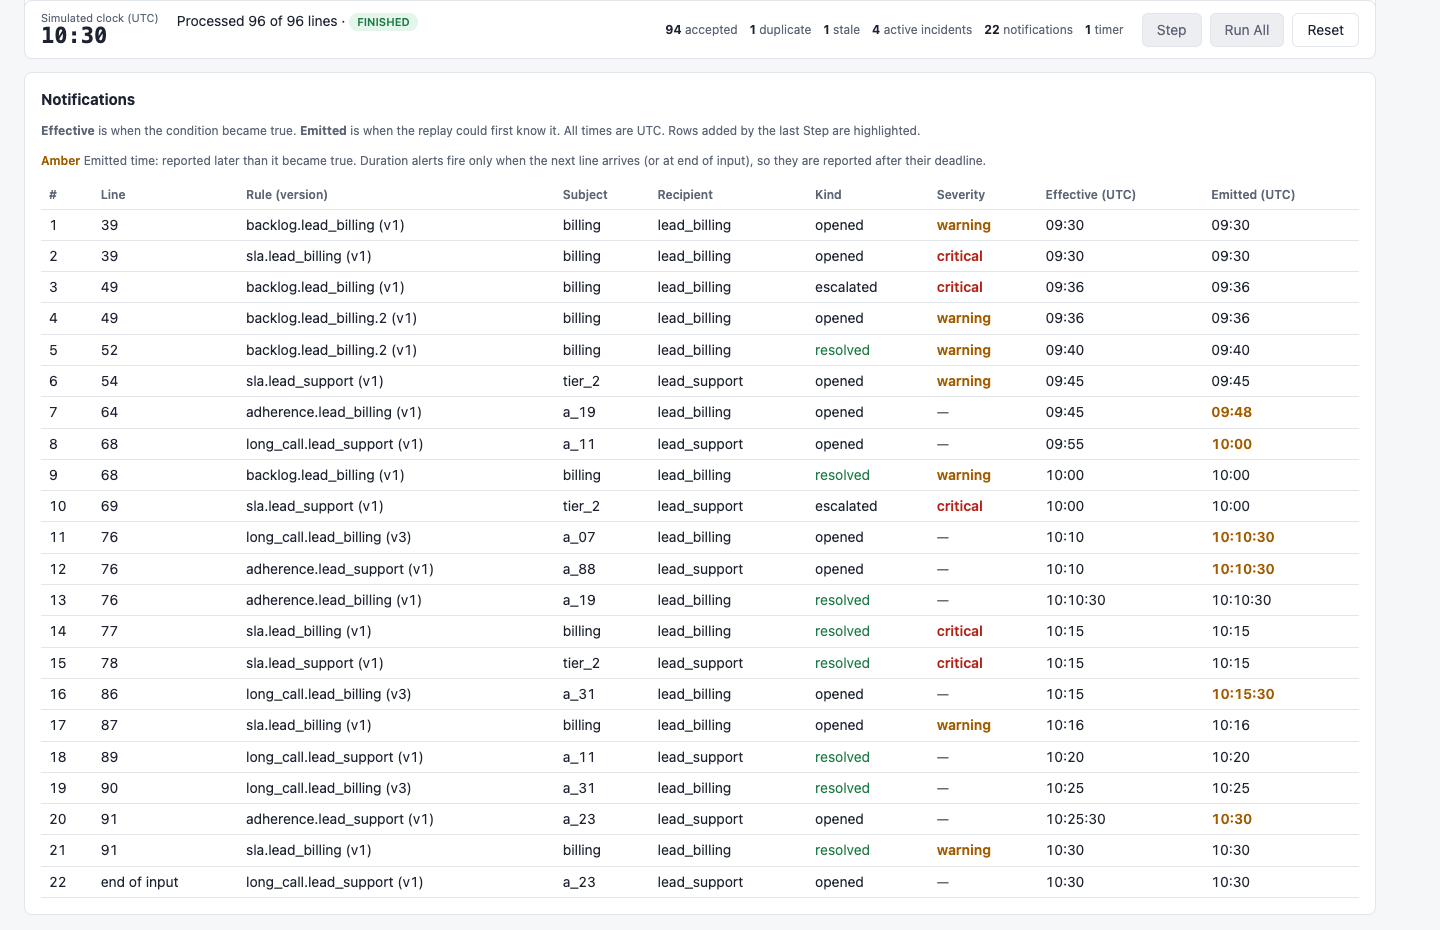
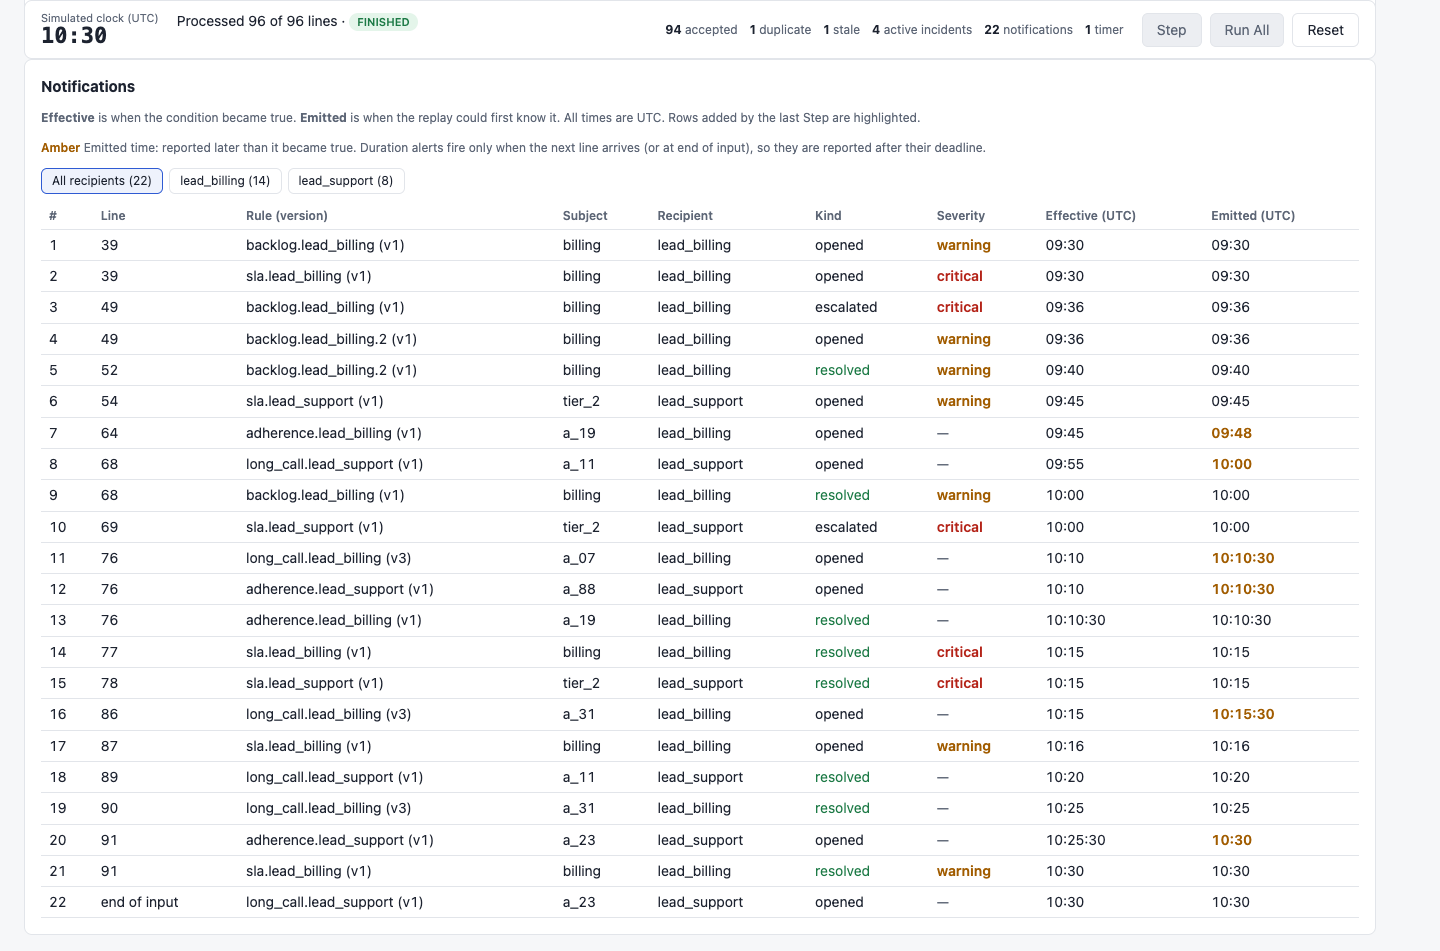
Add a display-only recipient filter to the notifications table
The Notifications table can show All recipients, lead_billing or lead_support, with counts taken from the loaded notifications. Filtering only hides rows: row numbers, replay counts and Step messages stay global. The choice survives page redraws but not a full reload, and keyboard focus stays on an activated filter button. No API, engine, storage or routing change (Decision 110). README and screenshot updated.

diff --git a/alerts/static/index.html b/alerts/static/index.html
@@ -163,6 +163,7 @@
       All times are UTC. Rows added by the last Step are highlighted.</p>
     <p class="small muted"><span class="late">Amber</span> Emitted time: reported later than it became true. Duration alerts fire
       only when the next line arrives (or at end of input), so they are reported after their deadline.</p>
+    <div class="filters" id="notification-filters"></div>
     <div class="table-wrap" id="notifications"></div>
   </section>
 
@@ -186,6 +187,7 @@ const ENABLED_NOTE =
 let highlighted = new Set();  // notification seqs added by the last Step (Run All highlights nothing)
 let lastStatus = null;        // the status as last drawn; Run All uses it to describe what it processed
 let incidentFilter = "all";
+let notificationRecipient = "all";  // display-only filter; kept across redraws, reset by a full page reload
 
 // Build an element. Text is always set with textContent, never parsed as HTML.
 function el(tag, props = {}, ...children) {
@@ -449,10 +451,21 @@ function renderIncidents(incidents) {
     incidents.length ? `No ${incidentFilter} incidents.` : "No incidents yet."));
 }
 
-function renderNotifications(rows) {
+// Filtering hides rows only: "#" stays the global sequence number and the replay counts are untouched.
+// focusFilter is true only when a filter button was activated, so keyboard focus stays on it after the redraw.
+function renderNotifications(rows, focusFilter = false) {
+  const counts = { all: rows.length };
+  for (const lead of LEADS) counts[lead] = rows.filter(n => n.recipient === lead).length;
+  const filters = document.getElementById("notification-filters");
+  filters.replaceChildren(...["all", ...LEADS].map(f =>
+    el("button", { type: "button", "aria-pressed": String(f === notificationRecipient), "data-recipient": f,
+                   onclick: () => { notificationRecipient = f; renderNotifications(rows, true); } },
+       `${f === "all" ? "All recipients" : f} (${counts[f]})`)));
+  if (focusFilter) filters.querySelector('[aria-pressed="true"]').focus();
+  const shown = rows.filter(n => notificationRecipient === "all" || n.recipient === notificationRecipient);
   document.getElementById("notifications").replaceChildren(table(
     ["#", "Line", "Rule (version)", "Subject", "Recipient", "Kind", "Severity", "Effective (UTC)", "Emitted (UTC)"],
-    rows.map(n => {
+    shown.map(n => {
       const lag = (Date.parse(n.emitted_at) - Date.parse(n.effective_at)) / 1000;
       const emitted = lag > 0
         ? el("td", { class: "late", title: `Reported ${delay(lag)} after it became true` }, hm(n.emitted_at))
@@ -468,7 +481,7 @@ function renderNotifications(rows) {
         el("td", {}, hm(n.effective_at)),
         emitted);
     }),
-    "No notifications yet. Press Step or Run All."));
+    rows.length ? `No notifications for ${notificationRecipient} yet.` : "No notifications yet. Press Step or Run All."));
 }
 
 function renderDiagnostics(rows) {

diff --git a/tests/test_api.py b/tests/test_api.py
@@ -785,3 +785,22 @@ def test_page_offers_the_recovery_threshold_field(client: TestClient) -> None:
     assert RECOVERY_LABEL in page
     assert RECOVERY_HINT in page
     assert "resolve_at_or_below" in page
+
+
+# ---------------------------------------------------------------------------
+# K. Review fix — recipient filter on the notifications table (UI only)
+# ---------------------------------------------------------------------------
+
+
+def test_page_offers_the_recipient_filter(client: TestClient) -> None:
+    page = client.get("/").text
+    for marker in ('id="notification-filters"', "All recipients", "No notifications for"):
+        assert marker in page, marker
+
+
+def test_recipient_query_is_ignored_by_the_api(client: TestClient) -> None:
+    # Filtering happens in the browser only; the API keeps returning every notification.
+    ok(client.post("/replay/run-all"))
+    everyone = ok(client.get("/notifications"))
+    assert len(everyone) == 20
+    assert ok(client.get("/notifications", params={"recipient": "lead_support"})) == everyone

diff --git a/README.md b/README.md
@@ -8,7 +8,7 @@ I focused on team leads because they directly manage queues and agents and can a
 
 > **This is a deterministic replay of historical events, not a live streaming service.** It reads `data/events.jsonl` one line at a time in file order, with a simulated clock. The same inputs and rule changes always give the same notifications. See [Replay vs. live](#replay-vs-live) for what that changes.
 
-![Dashboard after the demo: replay finished, 22 notifications, including the new billing rule's rows #4 and #5](docs/screenshot.png)
+![Dashboard after the demo: replay finished, 22 notifications, the recipient filter showing 22 / 14 / 8, and the new billing rule's rows #4 and #5](docs/screenshot.png)
 
 ## Quick start
 
@@ -53,7 +53,7 @@ Start with a fresh database. Every expected value below was checked against a cl
 4. **Run All.** 20 notifications. **#9 (a_07) and #10 (a_31) open with effective 10:00, emitted 10:01, rule v2**; #17 resolves a_31 at 10:25.
 5. **Restore, then Reset.** Edit the same rule back to 45 minutes (**v3**), then press **Reset**. Reset clears the replay history but keeps rule configurations and versions, so restore first.
 6. **Create a rule.** On *Backlog · backlog.lead_billing*, open **New rule from this one**, choose *Listed queues* = `billing`, warning 20, critical 25, and **Create rule**. The assignment's own example ("billing has more than 20 tickets waiting") appears as `backlog.lead_billing.2 · v1`, enabled.
-7. **Run All.** **22 notifications**: the new rule adds **#4 opened (warning, 09:36)** and **#5 resolved (warning, 09:40)**. The other 20 rows have exactly the timing, subjects, kinds and severities of the [oracle](#results-on-the-sample-data), but the long-call rows now show **v3**, so the full records are not identical.
+7. **Run All.** **22 notifications**: the new rule adds **#4 opened (warning, 09:36)** and **#5 resolved (warning, 09:40)**. The other 20 rows have exactly the timing, subjects, kinds and severities of the [oracle](#results-on-the-sample-data), but the long-call rows now show **v3**, so the full records are not identical. The filter above the table shows **All recipients (22)**, **lead_billing (14)** and **lead_support (8)**; choosing a lead hides the other rows but keeps the global numbers.
 8. **Diagnostics.** The panel lists six data-quality findings: null forecast (line 68), a_23 conflicting activity (86), a_31 duration mismatch (90), a duplicate (95, two rows) and a stale event (96).
 9. **Restart the server.** Stop it and start it again: rules, incidents, notifications and diagnostics are recovered from SQLite unchanged.
 
@@ -62,6 +62,7 @@ Start with a fresh database. Every expected value below was checked against a cl
 - **Four rule templates**: backlog, SLA risk/breach, adherence duration, long-call duration. Each has a plain-English preview, editable thresholds, scope, recipient and an enable toggle.
 - **Rule creation**: "New rule from this one" creates a new rule from any template. It starts at v1 and **enabled**, applies only from now on, and survives restart and Reset.
 - **Incidents and noise control**: one active incident per rule and subject; notifications only on open, escalation and resolution, and at most one critical notification per incident for each recipient.
+- **Recipient filter**: the Notifications table can show all recipients, lead_billing or lead_support. It only hides rows, so row numbers and replay counts stay global; the choice lasts until the page is reloaded.
 - **Routing**: seeded, illustrative ownership. A rule may only cover subjects its recipient owns, unless `cross_owner` is set.
 - **Data quality**, handled differently by kind:
   - Lines that fail schema validation are skipped, with the reason in the server log.
@@ -127,7 +128,7 @@ The expected 20 notifications (the **oracle**) were established and committed be
 
 ## Testing and verification
 
-- **485 automated tests** (`pytest`): parsing, replay state, rules, timers, incidents, routing, rule editing and creation, SQLite recovery and rollback, the HTTP API, dataset facts and the oracle.
+- **487 automated tests** (`pytest`): parsing, replay state, rules, timers, incidents, routing, rule editing and creation, SQLite recovery and rollback, the HTTP API, dataset facts and the oracle.
 - **Clean checkouts**: before each packaging and feature commit in the final phase, the staged files were copied to an empty folder, installed from `uv.lock` on Python 3.12, and the full suite was run there.
 - **Browser checks**: Playwright scripts exercised the dashboard (walkthrough, rule creation and numeric ordering, several widths, light and dark mode). They were run as scratch scripts and **are not included in this repository**.
 - Requirements were traced against my implementation plan ([`docs/PLAN.md`](docs/PLAN.md)) and against the original assignment ([below](#assignment-coverage)).
@@ -170,7 +171,7 @@ The expected 20 notifications (the **oracle**) were established and committed be
 | Disclose AI use and how output was verified | Below | [AI-assisted development](#ai-assisted-development) |
 | A working repository | This repository or a ZIP | [Quick start](#quick-start) |
 
-PLAN.md is kept as the original plan. Since then, rule creation was added (Decisions 100–105 replace 80), agent states became flexible (99 revises 10), storage uses a journal with four tables (70), a recipient gets at most one critical notification per incident (106–107, refining PLAN §5), and backlog rules gained an optional recovery threshold that is off by default (108–109).
+PLAN.md is kept as the original plan. Since then, rule creation was added (Decisions 100–105 replace 80), agent states became flexible (99 revises 10), storage uses a journal with four tables (70), a recipient gets at most one critical notification per incident (106–107, refining PLAN §5), backlog rules gained an optional recovery threshold that is off by default (108–109), and the Notifications table gained a display-only recipient filter (110).
 
 ## AI-assisted development
 
@@ -189,7 +190,7 @@ The working rules for the AI-assisted, phase-by-phase workflow are in [`CLAUDE.m
 ```
 alerts/            application code (see How it works)
 alerts/static/     the dashboard page
-tests/             485 tests, including the oracle
+tests/             487 tests, including the oracle
 data/events.jsonl  the sample event stream (96 lines)
 docs/              PLAN.md (original plan), DECISIONS.md, ENGINEERING_LOG.md, screenshot.png
 ```

diff --git a/docs/DECISIONS.md b/docs/DECISIONS.md
@@ -150,3 +150,7 @@ Each entry: decision — one-line reasoning.
 
 108. **Backlog rules have an optional `resolve_at_or_below` (a non-negative integer, or null). Null, the default for every seeded rule, keeps the PLAN §4 behaviour: resolve as soon as `tickets_waiting <= warning_above`, with no hysteresis. When set, values above it and at or below `warning_above` return `hold`, like the SLA rule's band (Decision 29): an open incident stays open, a critical one drops silently to warning, and nothing new opens. It must be at most `warning_above` (equal behaves like null); strict validation rejects booleans, decimals and numeric strings. An edit that lowers `warning_above` below an existing value fails unless both change in the same request. Edits take effect at the queue's next snapshot and never notify.** — The independent review reproduced a 16/15 flap (six notifications in six minutes). Making hysteresis opt-in fixes it for a lead who sees flapping without changing the seeded rules, the oracle or PLAN §4's default; a default band (for example 12) would move the dataset's billing backlog recovery from 10:00 to 10:15. A reopen cooldown was rejected because it would hide real reopens such as the billing SLA at 10:16, and a two-snapshot confirmation was rejected because PLAN §5 rules it out and it delays real alerts.
 109. **The field is stored inside the existing rule-config JSON: no schema change and no new journal row. Configs stored before it existed load as null and replay identically; configs written now include `"resolve_at_or_below": null`, so older code cannot read them (forward compatibility is not supported). `GET /rules` shows the key on backlog rules only. The dashboard adds an optional "Resolve at or below (tickets)" input to the backlog edit and create forms; clearing it sends null.** — Same validation and write path as every other threshold; the preview adds "recovers at or below N" only when set.
+
+## Phase 5 — review fixes: recipient filter (implemented; dashboard only)
+
+110. **The Notifications table has a display-only recipient filter: All recipients, lead_billing and lead_support, with counts taken from the notifications the page last loaded. It hides rows only. "#" stays the global sequence number, and the replay bar, Step and Run All messages keep global counts. The choice is a page variable, like the incidents filter, so it survives Step, Run All, Reset and rule saves but not a full reload. Activating a button keeps keyboard focus on it; other redraws do not move focus. No API, routing, storage or engine change: `GET /notifications` ignores a `recipient` query.** — With 20 to 22 rows, filtering in the browser is enough and keeps the API unchanged. Global numbers keep a filtered view consistent with the Step messages. A server-side `?recipient=` filter and remembering the choice across reloads were left out as unnecessary for the replay.
